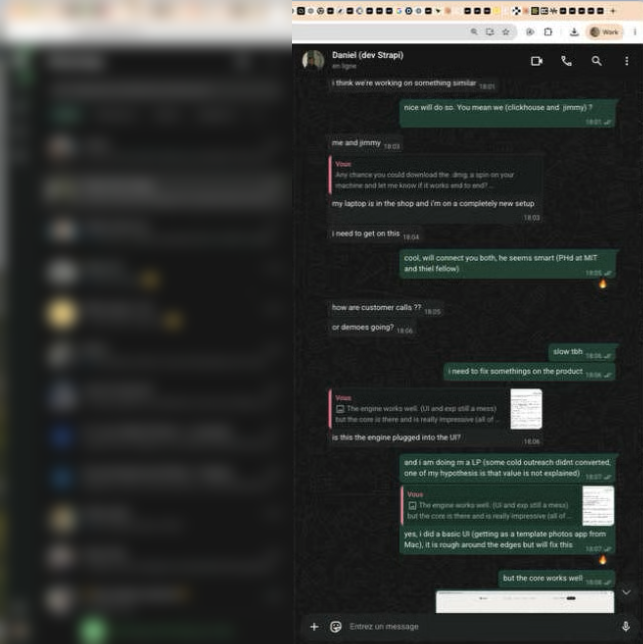
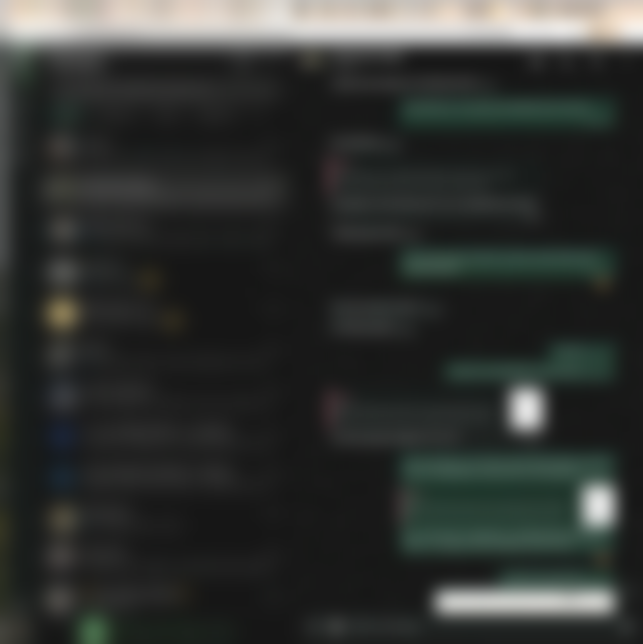
landing: the page names its own argument, and the hero stops stretching
The title in the browser tab still read "litepipe alt", left over from the
draft, and the description under it still sold a headline that had already
been replaced. Both now say what the page actually argues: a fully local
memory that any agent reads over MCP. The same text carries into the card
that renders when the link is pasted somewhere.

The section that shows the archive being read was framed around an assistant
watching you work. It is now framed around the agent that consumes the
context, since that is who the page is written for.

The hero image had a width that followed the screen and a height that never
moved, so it squeezed by nearly nine percent on a narrow window and grew
worse as the window narrowed. Letting the height follow the width fixes it,
and every image on the page now keeps its proportion from 390 to 1920.

The WhatsApp capture is blurred whole. Only the contact list was blurred
before, which left an entire conversation legible on a public page: a name,
the messages, the times. None of the people in it chose to be there.

diff --git a/docs/alt-b.html b/docs/alt-b.html
@@ -3,11 +3,11 @@
 <head>
 <meta charset="utf-8">
 <meta name="viewport" content="width=device-width, initial-scale=1">
-<title>litepipe &middot; alt</title>
-<meta name="description" content="A memory of your work that nobody else owns. Everything you have seen, said and heard at your computer, kept in one file on your own disk. Open source, MIT, no account, no cloud.">
+<title>litepipe &middot; Fully local memory to your agents</title>
+<meta name="description" content="Everything you have seen, said and heard at your computer, kept in one file on your own Mac. Point any agent at it over MCP and it works from your real context. Open source, MIT, free, no account, no cloud.">
 <link rel="icon" href="assets/litepipe-icon.png">
-<meta property="og:title" content="litepipe">
-<meta property="og:description" content="A memory of your work that nobody else owns. One file, on your own disk. Open source, MIT.">
+<meta property="og:title" content="litepipe &middot; Fully local memory to your agents">
+<meta property="og:description" content="Bring any AI. Only you own your memories. Everything you saw, said and heard, in one file on your own Mac. Open source, MIT, free.">
 <meta property="og:image" content="https://rafaelpta.github.io/litepipe/assets/archive-window.png">
 <meta property="og:url" content="https://rafaelpta.github.io/litepipe/">
 <meta name="twitter:card" content="summary_large_image">
@@ -101,7 +101,7 @@
   .frame .chrome { display: flex; align-items: center; gap: 7px; padding: 11px 14px; border-bottom: 1px solid var(--rule); background: var(--paper); }
   .frame .chrome i { width: 9px; height: 9px; border-radius: 99px; background: var(--rule-2); font-style: normal; }
   .frame .chrome span { margin-left: 8px; font-family: "JetBrains Mono", monospace; font-size: 10.5px; color: var(--faint); }
-  .frame img { width: 100%; }
+  .frame img { width: 100%; height: auto; display: block; }
 
   /* ---------- the day tape ---------- */
   .tape-band { background: var(--ink); color: var(--ground); padding: 64px 0 56px; }
@@ -909,7 +909,7 @@
   <div class="in">
     <section>
       <p class="eyebrow">Peripheral context awareness</p>
-      <h2>An assistant always aware of your work</h2>
+      <h2>Your agent starts already knowing what you did</h2>
       <p class="say">Get work done without AIsplaining and copying and pasting the obvious. litepipe knows what you have in mind.</p>
 
       <div class="demo-top">

diff --git a/docs/index.html b/docs/index.html
@@ -3,11 +3,11 @@
 <head>
 <meta charset="utf-8">
 <meta name="viewport" content="width=device-width, initial-scale=1">
-<title>litepipe &middot; alt</title>
-<meta name="description" content="A memory of your work that nobody else owns. Everything you have seen, said and heard at your computer, kept in one file on your own disk. Open source, MIT, no account, no cloud.">
+<title>litepipe &middot; Fully local memory to your agents</title>
+<meta name="description" content="Everything you have seen, said and heard at your computer, kept in one file on your own Mac. Point any agent at it over MCP and it works from your real context. Open source, MIT, free, no account, no cloud.">
 <link rel="icon" href="assets/litepipe-icon.png">
-<meta property="og:title" content="litepipe">
-<meta property="og:description" content="A memory of your work that nobody else owns. One file, on your own disk. Open source, MIT.">
+<meta property="og:title" content="litepipe &middot; Fully local memory to your agents">
+<meta property="og:description" content="Bring any AI. Only you own your memories. Everything you saw, said and heard, in one file on your own Mac. Open source, MIT, free.">
 <meta property="og:image" content="https://rafaelpta.github.io/litepipe/assets/archive-window.png">
 <meta property="og:url" content="https://rafaelpta.github.io/litepipe/">
 <meta name="twitter:card" content="summary_large_image">
@@ -101,7 +101,7 @@
   .frame .chrome { display: flex; align-items: center; gap: 7px; padding: 11px 14px; border-bottom: 1px solid var(--rule); background: var(--paper); }
   .frame .chrome i { width: 9px; height: 9px; border-radius: 99px; background: var(--rule-2); font-style: normal; }
   .frame .chrome span { margin-left: 8px; font-family: "JetBrains Mono", monospace; font-size: 10.5px; color: var(--faint); }
-  .frame img { width: 100%; }
+  .frame img { width: 100%; height: auto; display: block; }
 
   /* ---------- the day tape ---------- */
   .tape-band { background: var(--ink); color: var(--ground); padding: 64px 0 56px; }
@@ -909,7 +909,7 @@
   <div class="in">
     <section>
       <p class="eyebrow">Peripheral context awareness</p>
-      <h2>An assistant always aware of your work</h2>
+      <h2>Your agent starts already knowing what you did</h2>
       <p class="say">Get work done without AIsplaining and copying and pasting the obvious. litepipe knows what you have in mind.</p>
 
       <div class="demo-top">
